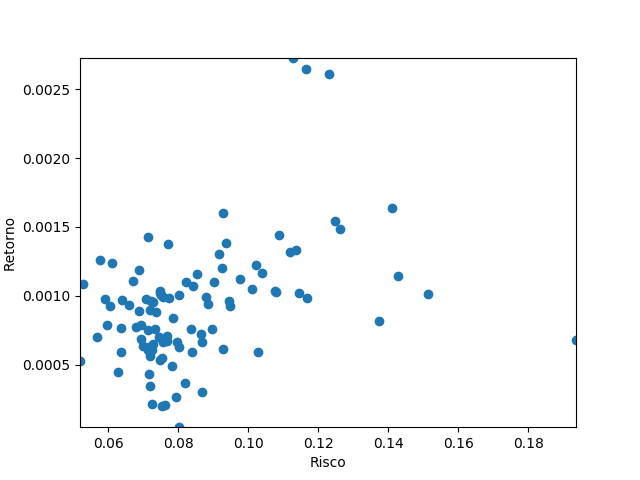
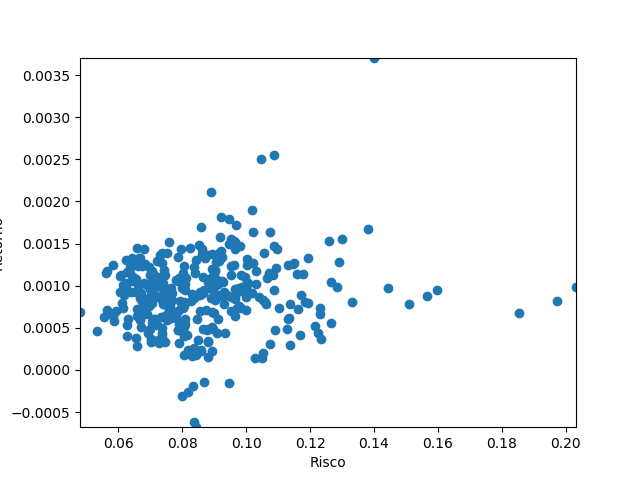
update

diff --git a/nsga2.py b/nsga2.py
@@ -7,6 +7,7 @@ import random
 from os import listdir
 from os.path import isfile, join
 from pprint import pprint
+import numpy as np
 
 class Ativo:
     idAtivo = itertools.count()
@@ -83,9 +84,10 @@ class Carteira:
     def printCarteira(self):
         for i in self.ativos:
             print(i[0].getCodigo(), round(i[1],4))
-        print("Fitness: " + str(self.fitness()))
+        # print("Fitness: " + str(self.fitness()))
 
     def fitness(self):
+        print("ret: " + str(self.retorno) + " risco: " + str(self.risco))
         return self.retorno/self.risco
 
     def getIndexPeloAtivo(self, ativo):
@@ -125,6 +127,9 @@ def inicializa():
         i.setRisco(ris)
         ret = sum(retorno(i.getCotacoes()))/len(i.getCotacoes())
         i.setRetorno(ret)
+    
+    for i in listaAtivos:
+        print(i.getRetorno())
 
 def populacao_inicial():
     global populacao
@@ -138,11 +143,11 @@ def populacao_inicial():
 def retorno(ativo):
     retorno = []
     for i in range(len(ativo) -1):
-        if(ativo[i] != 0):
-            retorno.append(( ativo[i+1] - ativo[i] ) / ativo[i])
-
-        else:
-            retorno.append(( ativo[i+1] - ativo[i] ) / 0.001)
+        #if(ativo[i] != 0):
+        #retorno.append(np.log(ativo[i+1] / (ativo[i])))
+        retorno.append((ativo[i+1] - ativo[i]) / ativo[i])
+        #else:
+        #    retorno.append(( ativo[i+1] - ativo[i] ) / 0.001)
     return retorno
 
 def cvar(ativo):
@@ -154,17 +159,18 @@ def cvar(ativo):
     var99 = ret_ord[ceil((1-(99/100))*total_count)]
     var999 = ret_ord[ceil((1-(99.9/100))*total_count)]
 
-    cvar95 = (abs(1/((1-(95/100))*total_count))*soma_aux(ret_ord, round((1-(95/100))*total_count)))
-    cvar99 = (abs(1/((1-(99/100))*total_count))*soma_aux(ret_ord, round((1-(99/100))*total_count)))
-    cvar999 = (abs(1/((1-(99.9/100))*total_count))*soma_aux(ret_ord, round((1-(99.9/100))*total_count)))
+    cvar95 = abs((1/((1-(95/100))*total_count))*soma_aux(ret_ord, ceil((1-(95/100))*total_count)))
+    cvar99 = abs((1/((1-(99/100))*total_count))*soma_aux(ret_ord, ceil((1-(99/100))*total_count)))
+    cvar999 = abs((1/((1-(99.9/100))*total_count))*soma_aux(ret_ord, ceil((1-(99.9/100))*total_count)))
 
-    return [abs(cvar95), abs(cvar99),  abs(cvar999)]
+    return [(cvar95), (cvar99), (cvar999)]
 
 def otimiza():
     global populacao
     popCrossover = crossover(populacao)
     populacaoMutacao = mutacao(popCrossover)
-    populacao = populacaoMutacao.copy()
+    popfiltragem = filtragem(populacaoMutacao)
+    populacao = popfiltragem.copy()
 
 def main():
 

diff --git a/operadores.py b/operadores.py
@@ -14,12 +14,16 @@ def crossover(populacao):
             print("1")
             probabilidade = random.random()
             carteira = pop[random.randint(0,TAM_POP-1)]
+            print("fitness: " + str(carteira.fitness()))
+            print("denominador: " + str(pop[TAM_POP-1].fitness()))
             if(probabilidade <= (carteira.fitness()/pop[TAM_POP-1].fitness())):
                 pai1 = copy.copy(carteira)
                 while True:
                     print("2")
                     probabilidade = random.random()
                     carteira = pop[random.randint(0,TAM_POP-1)]
+                    print("prob:" + str(probabilidade))
+                    print("div: " + str(carteira.fitness()/pop[TAM_POP-1].fitness()))
                     if(probabilidade <= (carteira.fitness()/pop[TAM_POP-1].fitness())):
                         if(pai1.getId() != carteira.getId()):
                             pai2 = copy.copy(carteira)
@@ -46,10 +50,10 @@ def crossover(populacao):
 
     #novaPop contém os N (tamanho da população) melhores portfólios
 
-    for i in range(len(pop)-1, (len(pop)//2)-1, -1):
-        novaPop.append(pop[i])
+    # for i in range(len(pop)-1, 0, -1):
+    #     novaPop.append(pop[i])
 
-    return novaPop
+    return pop
 
 def mutacao(populacao):
     for carteira in populacao:
@@ -67,6 +71,7 @@ def mutacao(populacao):
                 else:
                     novoAtivo1 = random.choice(listaAtivos) #gera um ativo novoAtivo1 para substituir o ativo atual
                     carteira.setAtivoPeloIndex(index1, (novoAtivo1, ativo[1]))
+
             index1+=1
     return populacao
 
@@ -74,6 +79,12 @@ def mutacao(populacao):
 def eleicao(pop):
     pop_ord = sorted(pop,key=getKey)
     return pop_ord
+
+def filtragem(pop):
+    p = pop/2
+    for i in range(p):
+        if i <= 
+    fronteiras = ordenação_não_dom(fitness)
 
 
 

diff --git a/globais.py b/globais.py
@@ -1,4 +1,4 @@
-TAM_POP = 100
+TAM_POP = 350
 CARDINALIDADE = 9
 ITERACOES = 1000
 listaAtivos = []
